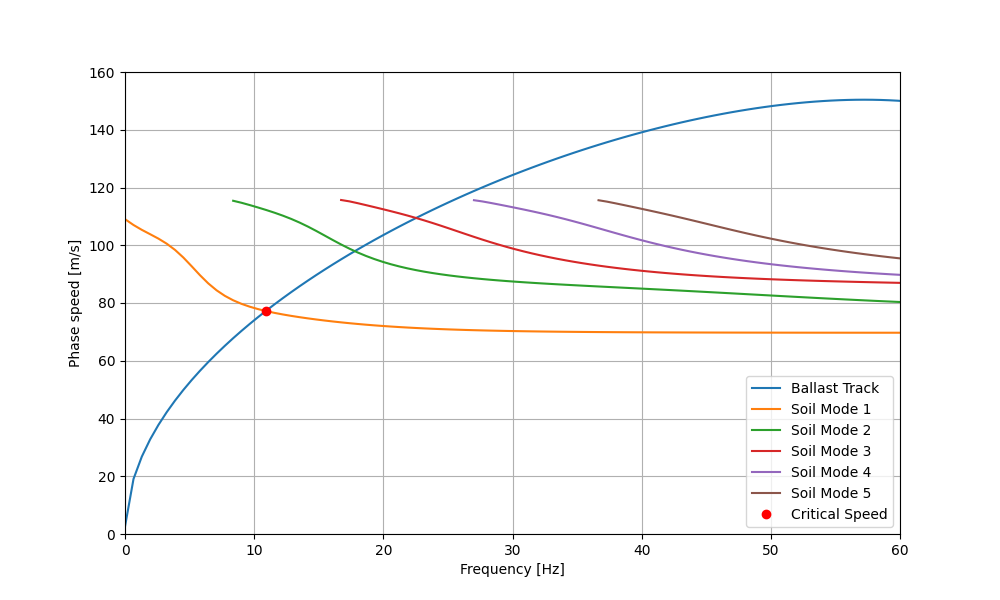
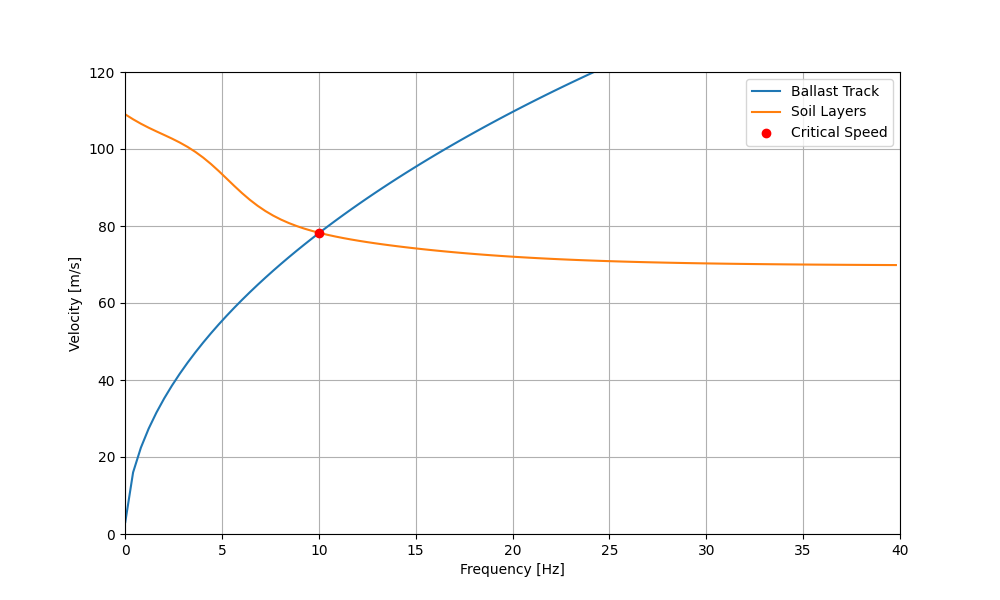
Update README and improve soil dispersion functionality: - Enhance documentation with additional references and examples. - Modify SoilDispersion class to support multiple modes and improve phase velocity calculations. - Update plotting functions for clarity and accuracy. - Add new images for soil a

diff --git a/TrainCritSpeed/soil_dispersion.py b/TrainCritSpeed/soil_dispersion.py
@@ -9,7 +9,6 @@ from tqdm import tqdm
 from scipy import optimize
 import matplotlib.pyplot as plt
 
-
 np.seterr(invalid='ignore')
 warnings.simplefilter("ignore", category=RuntimeWarning)
 
@@ -54,7 +53,7 @@ class SoilDispersion:
     The last layer is always assumed to be a halfspace.
     """
 
-    def __init__(self, soil_layers: List[Layer], omegas: npt.NDArray[np.float64], nb_modes=5, step=0.001):
+    def __init__(self, soil_layers: List[Layer], omegas: npt.NDArray[np.float64], nb_modes=1, step=0.001):
         """
         Initialize the soil dispersion model.
 
@@ -94,7 +93,7 @@ class SoilDispersion:
 
             roots = []
             for i in range(len(c_list) - 1):
-                if d[i] * d[i+1] < 0:  # Sign change detected
+                if d[i] * d[i + 1] < 0:  # Sign change detected
                     root_interval = (c_list[i], c_list[i + 1])
 
                     # find the root within the bracket root
@@ -104,10 +103,7 @@ class SoilDispersion:
                                                     method='brentq')
                     roots.append(solution.root)
 
-            if not roots:
-                self.phase_velocity[j, :nb_found_modes] = np.nan
-                continue
-            else:
+            if roots:
                 nb_found_modes = min(len(roots), self.nb_modes)
                 self.phase_velocity[j, :nb_found_modes] = roots[:nb_found_modes]
 
@@ -221,8 +217,8 @@ class SoilDispersion:
         c = np.asarray(c, dtype=np.complex128)
         k = np.asarray(k, dtype=np.complex128)
 
-        r = np.sqrt(1 - (c / c_p) ** 2 + 0j)
-        s = np.sqrt(1 - (c / c_s) ** 2 + 0j)
+        r = np.sqrt(1 - (c / c_p)**2 + 0j)
+        s = np.sqrt(1 - (c / c_s)**2 + 0j)
 
         C_alpha = np.cosh(k * r * d)
         S_alpha = np.sinh(k * r * d)
@@ -231,26 +227,24 @@ class SoilDispersion:
 
         return C_alpha, S_alpha, C_beta, S_beta, r, s
 
-
-    def soil_dispersion_image(self, c_min: float = None, c_max: float = None, c_step: float = 5.0,
-                              file_name: Path = "./soil_dispersion.png"):
+    def soil_dispersion_image(self, file_name: Path = Path("soil_dispersion.png")):
         """
         Computes and plots the dispersion function over a 2D grid of frequency vs. phase velocity.
 
         The resulting image reveals all dispersion modes as dark lines.
 
         Args:
-            c_min (float, optional): The minimum phase velocity for the search grid.
-                                     Defaults to 0.5 * min(layer_cs).
-            c_max (float, optional): The maximum phase velocity for the search grid.
-                                     Defaults to the half-space shear velocity.
-            c_step (float): The velocity step [m/s] for the grid.
+            file_name (Path): Path to save the dispersion image (Optional: default is "./soil_dispersion.png").
         """
 
         # check if critical speed has been computed
         if np.all(np.isnan(self.phase_velocity)):
             warnings.warn("Soil dispersion has not been computed yet, therefore the phase velocity will not be plotted."
-            "Run the soil_dispersion() method first if you want to see the phase velocity on the plot.")
+                          "Run the soil_dispersion() method first if you want to see the phase velocity on the plot.")
+
+        # check if folder exists, if not create
+        if not file_name.parent.exists():
+            file_name.parent.mkdir(parents=True, exist_ok=True)
 
         c_list = np.arange(self.min_c, self.max_c + self.step, self.step)
         frequencies = self.omega / (2 * np.pi)

diff --git a/TrainCritSpeed/track_dispersion.py b/TrainCritSpeed/track_dispersion.py
@@ -115,7 +115,7 @@ class BallastedTrack(TrackDispersionAbc):
 
         self.phase_velocity = np.full(len(omega), np.nan)
 
-    def __track_stiffness_matrix(self, wave_number: float, omega: float):
+    def __track_stiffness_matrix(self, wave_number: float, omega: float) -> np.float64:
         """
         Calculate the determinant of the stiffness matrix for the given wave number.
 
@@ -124,7 +124,7 @@ class BallastedTrack(TrackDispersionAbc):
             omega (float): Angular frequency
 
         Returns:
-            float: Determinant of the stiffness matrix.
+            np.float64: Determinant of the stiffness matrix.
         """
         # auxiliar values
         tan_value = np.tan(omega * self.parameters.h_ballast / self.parameters.cp) * self.parameters.cp
@@ -147,14 +147,11 @@ class BallastedTrack(TrackDispersionAbc):
             [0, k23, k33],
         ])
 
-        return np.linalg.det(stiffness)
+        return np.linalg.det(stiffness).real  # type: ignore[no-any-return]
 
     def track_dispersion(self):
         """
         Find the wavenumber that causes the determinant of the stiffness matrix to be zero.
-
-        Returns:
-            float: Wave number solution.
 
         Raises:
             ValueError: If the solver fails to converge to a solution.
@@ -214,7 +211,7 @@ class SlabTrack(TrackDispersionAbc):
 
         self.phase_velocity = np.full(len(omega), np.nan)
 
-    def __track_stiffness_matrix(self, wave_number: float, omega: float):
+    def __track_stiffness_matrix(self, wave_number: float, omega: float) -> np.float64:
         """
         Calculate the determinant of the stiffness matrix for the given wave number.
 
@@ -223,7 +220,7 @@ class SlabTrack(TrackDispersionAbc):
             omega (float): Angular frequency
 
         Returns:
-            float: Determinant of the stiffness matrix.
+            np.float64: Determinant of the stiffness matrix.
         """
 
         # railpad complex stiffness
@@ -231,7 +228,7 @@ class SlabTrack(TrackDispersionAbc):
 
         # stiffness matrix
         k11 = self.parameters.EI_rail * wave_number**4 + rail_pad_complex_stiffness - omega**2 * self.parameters.m_rail
-        k12 = rail_pad_complex_stiffness
+        k12 = -rail_pad_complex_stiffness
         k22 = rail_pad_complex_stiffness + self.parameters.EI_slab * wave_number**4 - omega**2 * self.parameters.m_slab + self.parameters.soil_stiffness
 
         stiffness = np.array([
@@ -239,14 +236,11 @@ class SlabTrack(TrackDispersionAbc):
             [k12, k22],
         ])
 
-        return np.linalg.det(stiffness)
+        return np.linalg.det(stiffness).real  # type: ignore[no-any-return]
 
     def track_dispersion(self):
         """
         Find the wavenumber that causes the determinant of the stiffness matrix to be zero.
-
-        Returns:
-            float: Wave number solution.
 
         Raises:
             ValueError: If the solver fails to converge to a solution.

diff --git a/critical_speed.py b/critical_speed.py
@@ -45,7 +45,7 @@ plt.plot(cs.frequency / 2 / np.pi, cs.critical_speed, "ro", label="Critical Spee
 plt.xlim(0, 60)
 plt.ylim(0, 160)
 plt.xlabel("Frequency [Hz]")
-plt.ylabel("Phase speed [m/s]")
+plt.ylabel("Velocity [m/s]")
 plt.grid()
 plt.legend()
 plt.savefig("results/critical_speed.png")

diff --git a/README.md b/README.md
@@ -2,8 +2,10 @@
 
 A Python package for analyzing critical speeds in railway systems, focusing on soil and track dispersion analysis.
 
-The methodology for the computation of the critical train speed is based on the work of [Mezher et al. (2016)](https://www.sciencedirect.com/science/article/abs/pii/S2214391215000239).
-The dispersion curve for the layered soil is based on the Fast Delta Matrix method proposed by [Buchen and Ben-Hador (1996)](https://academic.oup.com/gji/article-lookup/doi/10.1111/j.1365-246X.1996.tb05642.x).
+The methodology for the computation of the critical train speed is based on the work of
+[Mezher et al. (2016)](https://www.sciencedirect.com/science/article/abs/pii/S2214391215000239).
+The dispersion curve for the layered soil is based on the Fast Delta Matrix method proposed by
+[Buchen and Ben-Hador (1996)](https://academic.oup.com/gji/article-lookup/doi/10.1111/j.1365-246X.1996.tb05642.x).
 
 ## Installation
 
@@ -17,7 +19,8 @@ pip install git+https://github.com/PlatypusBytes/TrainCritSpeed
 
 ### Soil Dispersion Analysis
 
-Analyze the dispersion characteristics of a multi-layered soil:
+Analyze the dispersion characteristics of a multi-layered soil (soil profile 3 in
+[Mezher et al. (2016)](https://www.sciencedirect.com/science/article/abs/pii/S2214391215000239)):
 
 ```python
 import numpy as np
@@ -26,27 +29,45 @@ from TrainCritSpeed.soil_dispersion import Layer, SoilDispersion
 
 # Define soil layers with properties
 soil_layers = [
-    Layer(density=1900, young_modulus=2.67e7, poisson_ratio=0.33, thickness=5),
-    Layer(density=1900, young_modulus=1.14e8, poisson_ratio=0.33, thickness=10),
-    Layer(density=1900, young_modulus=2.63e8, poisson_ratio=0.33, thickness=15),
-    Layer(density=1900, young_modulus=4.71e8, poisson_ratio=0.33, thickness=np.inf),
+    Layer(density=2000, young_modulus=30e6, poisson_ratio=0.35, thickness=2),
+    Layer(density=2000, young_modulus=40e6, poisson_ratio=0.35, thickness=4),
+    Layer(density=2000, young_modulus=75e6, poisson_ratio=0.40, thickness=np.inf),
 ]
 
+number_modes = 3
+
 # Calculate dispersion across frequency range
-omegas = np.linspace(1, 50 * 2 * np.pi, 100)
-dispersion = SoilDispersion(soil_layers, omegas)
+omegas = np.linspace(1, 80 * 2 * np.pi, 100)
+dispersion = SoilDispersion(soil_layers, omegas, number_modes)
 dispersion.soil_dispersion()
 
 # Plot results
-plt.plot(omegas / 2 / np.pi, dispersion.phase_velocity)
+for mode in range(number_modes):
+    plt.plot(omegas / 2 / np.pi, dispersion.phase_velocity[:, mode], label=f"Mode {mode+1}")
 plt.xlabel('Frequency [Hz]')
-plt.ylabel('Phase velocity [m/s]')
+plt.ylabel('Velocity [m/s]')
+plt.grid()
+plt.xlim(0, 80)
+plt.ylim(0, 160)
+plt.legend()
 plt.show()
 ```
+The result is a plot similar to the following:
+![Soil Velocity](static/soil_velocity.png)
+
+If you want to plot the 2D dispersion image (to reproduce Figure 6a in [Mezher et al. (2016)](https://www.sciencedirect.com/science/article/abs/pii/S2214391215000239)) you can use the following code:
+
+```python
+from pathlib import Path
+
+dispersion.soil_dispersion_image(file_name=Path("soil_dispersion_contour.png"))
+```
+The result is a figure saved in the file_name location, similar to the following:
+![Soil Dispersion Contour](static/soil_dispersion_contour.png)
 
 ### Track Dispersion Analysis
 
-Compare dispersion characteristics of ballasted and slab tracks:
+TrainCritSpeed allows the computation of track dispersion curve for ballasted and slab tracks:
 
 ```python
 from TrainCritSpeed.track_dispersion import BallastedTrack, BallastTrackParameters
@@ -93,16 +114,21 @@ plt.legend()
 plt.show()
 ```
 
+The result is a plot similar to Figure 15a in [Mezher et al. (2016)](https://www.sciencedirect.com/science/article/abs/pii/S2214391215000239):
+
+![Track Dispersion](static/track_dispersion.png)
+
 ### Critical Speed Calculation
 
-Calculate the critical speed on a ballasted track:
+Calculate the critical speed on a ballasted track (same methodology applies for slab tracks):
 
 ```python
 import numpy as np
 import matplotlib.pyplot as plt
+
 from TrainCritSpeed.track_dispersion import BallastedTrack, BallastTrackParameters
 from TrainCritSpeed.soil_dispersion import Layer, SoilDispersion
-from TrainCritSpeed.critical_Speed import CriticalSpeed
+from TrainCritSpeed.critical_speed import CriticalSpeed
 
 # Define frequency range
 omega = np.linspace(0.1, 250, 100)
@@ -123,10 +149,9 @@ ballast_parameters = BallastTrackParameters(
 
 # Define soil layers with properties
 soil_layers = [
-    Layer(density=1900, young_modulus=2.67e7, poisson_ratio=0.33, thickness=5),
-    Layer(density=1900, young_modulus=1.14e8, poisson_ratio=0.33, thickness=10),
-    Layer(density=1900, young_modulus=2.63e8, poisson_ratio=0.33, thickness=15),
-    Layer(density=1900, young_modulus=4.71e8, poisson_ratio=0.33, thickness=np.inf),
+    Layer(density=2000, young_modulus=30e6, poisson_ratio=0.35, thickness=2),
+    Layer(density=2000, young_modulus=40e6, poisson_ratio=0.35, thickness=4),
+    Layer(density=2000, young_modulus=75e6, poisson_ratio=0.40, thickness=np.inf),
 ]
 
 # Calculate dispersion for track and soil
@@ -140,12 +165,17 @@ print(f"Critical speed: {cs.critical_speed} m/s")
 
 # Visualize results
 plt.figure(figsize=(10, 6))
-plt.plot(omega, ballast.phase_velocity, label="Ballast Track")
-plt.plot(omega, dispersion.phase_velocity, label="Soil Layers")
-plt.plot(cs.frequency, cs.critical_speed, "ro", label="Critical Speed")
-plt.xlabel("Angular frequency [rad/s]")
-plt.ylabel("Phase speed [m/s]")
+plt.plot(omega / 2 / np.pi, ballast.phase_velocity, label="Ballast Track")
+plt.plot(omega / 2 / np.pi, dispersion.phase_velocity, label="Soil Layers")
+plt.plot(cs.frequency / 2 / np.pi, cs.critical_speed, "ro", label="Critical Speed")
+plt.xlabel("Frequency [Hz]")
+plt.ylabel("Velocity [m/s]")
+plt.xlim(0, 40)
+plt.ylim(0, 120)
 plt.grid()
 plt.legend()
 plt.show()
 ```
+
+In this case the critical speed is 78.2 m/s and the plot is similar to Figure 15a in
+[Mezher et al. (2016)](https://www.sciencedirect.com/science/article/abs/pii/S2214391215000239).
